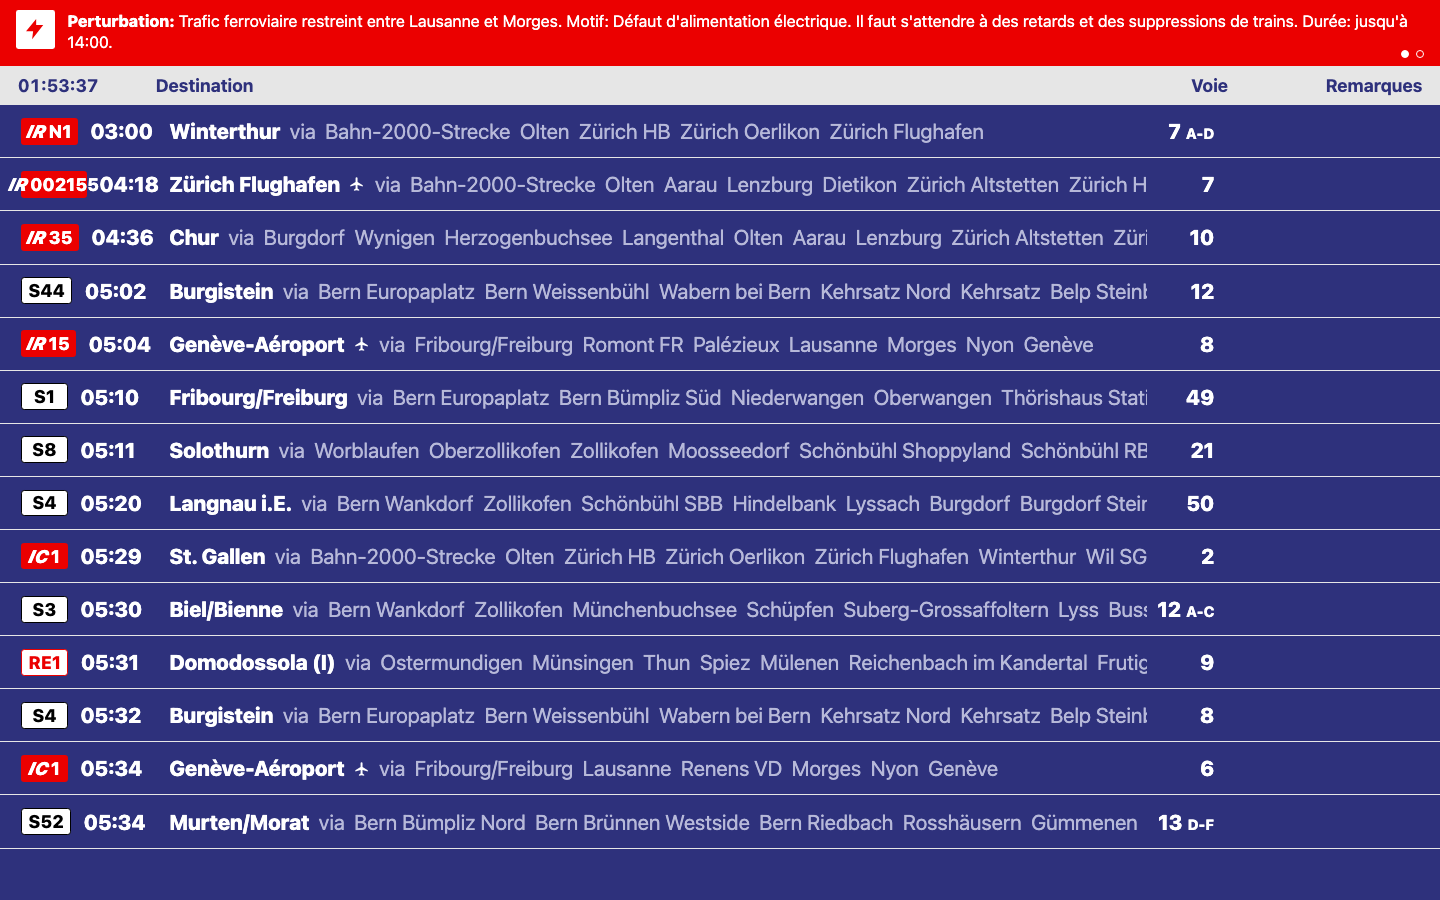
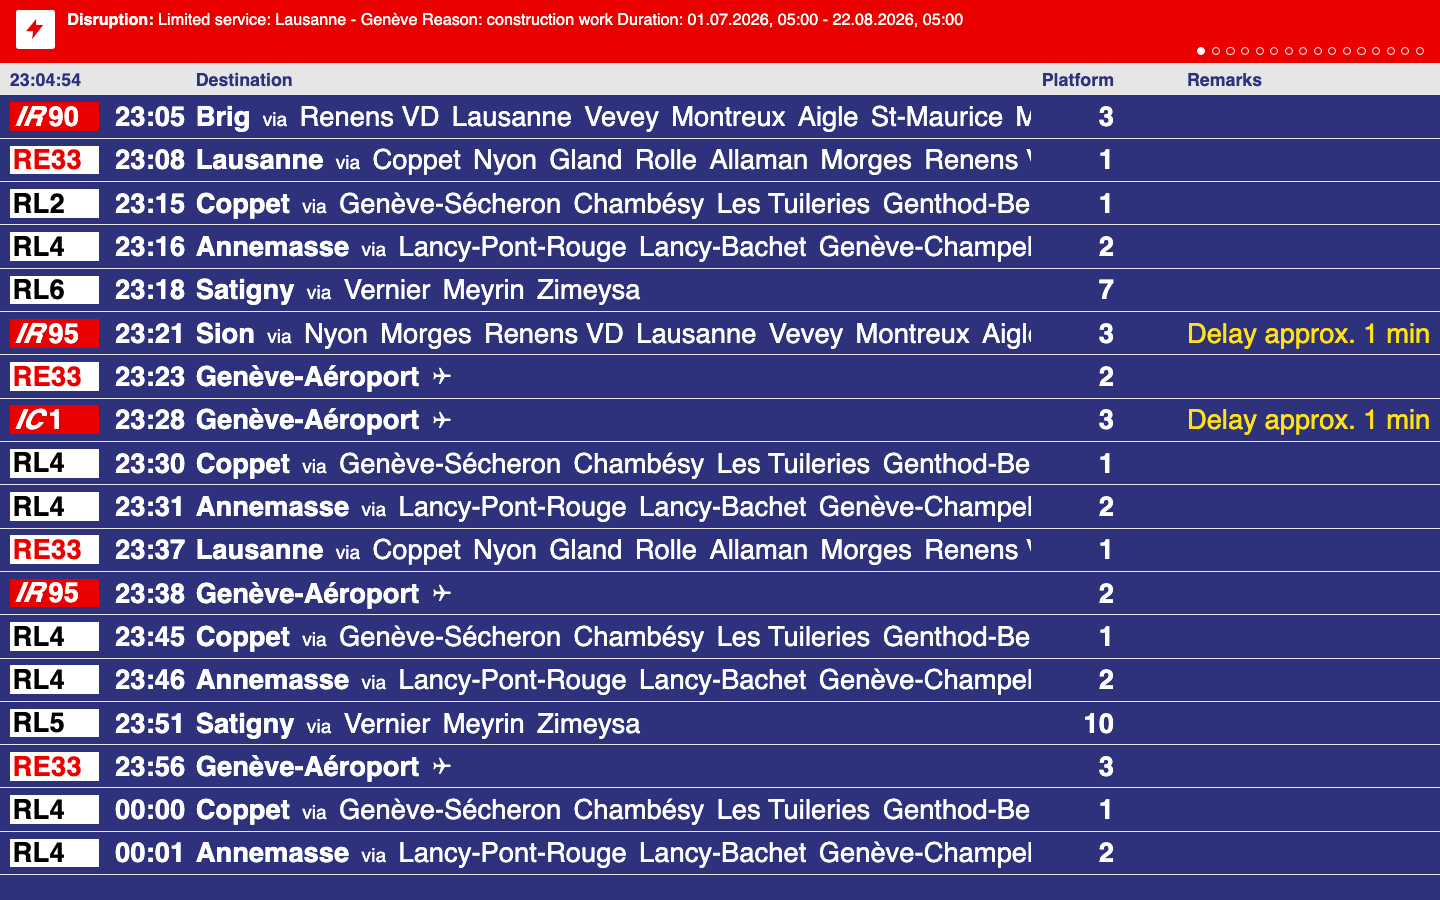
docs: update README screenshot to Geneva, English

Changed region(s): [[0.0, 0.0, 1.0, 0.9644], [0.8125, 0.84, 0.8438, 0.8711]]

diff --git a/README.md b/README.md
@@ -6,7 +6,7 @@ not the classic split-flap one. Built with Vite, React, and TypeScript,
 fetching live departure/arrival data directly from the public
 [transport.opendata.ch](https://transport.opendata.ch) API.
 
-![Board showing live departures from Bern, fetched from transport.opendata.ch](docs/screenshot.png)
+![Board showing live departures from Geneva, fetched from transport.opendata.ch](docs/screenshot.png)
 
 ## Status
 
